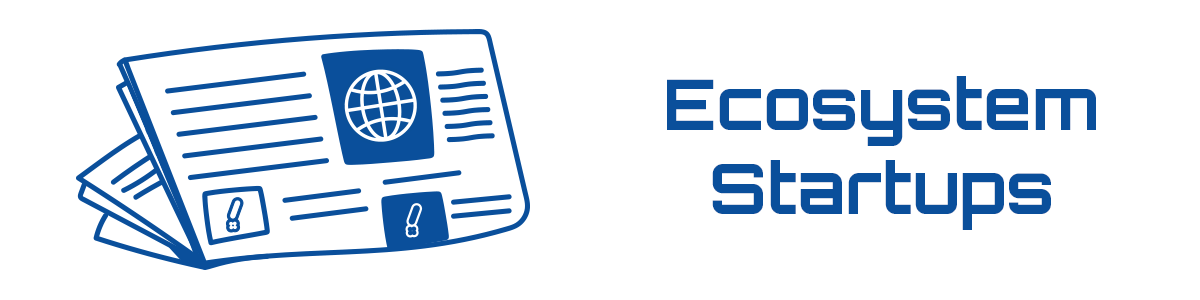
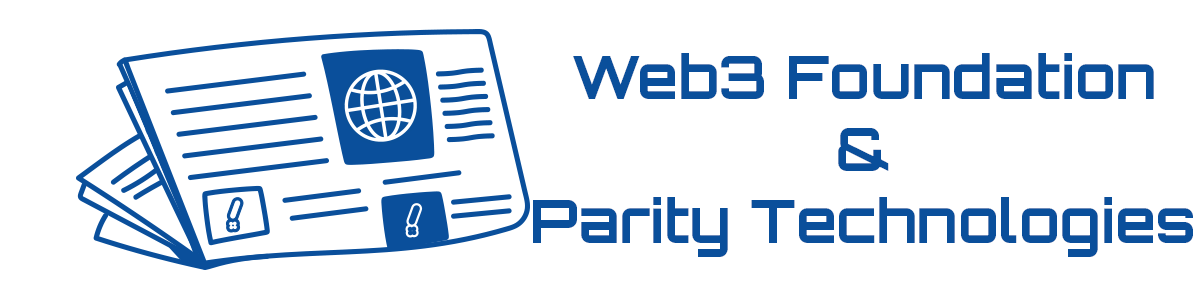
GITBOOK-730: Twitter thread 018

Changed region(s): [[0.4317, 0.18, 1.0, 0.87]]

diff --git a/community/careers/sustainable-employment.md b/community/careers/sustainable-employment.md
@@ -4,6 +4,45 @@ description: Corporate roles in the Polkadot ecosystem.
 
 # Sustainable employment
 
+## Work for an organisation.
+
+_23rd October 2025 | A thread by Pooja G._
+
+
+
+**Looking to work on blockchain infrastructure and governance?** The Web3 Foundation and Parity Technologies, two key organizations behind the [Polkadot](https://polkadot.com/) ecosystem, are actively recruiting.&#x20;
+
+<figure><img src="../../.gitbook/assets/Thread18.1.PNG" alt=""><figcaption></figcaption></figure>
+
+
+
+Parity Technologies is the engineering powerhouse behind the Polkadot SDK. This tech company creates the building blocks for decentralized networks and dApps.&#x20;
+
+The Web3 Foundation funds research, provides developers grants, and drives growth across Polkadot network. But its focus goes beyond the ecosystem to enable the next generation of Web3 products.
+
+<figure><img src="../../.gitbook/assets/unknown (1).png" alt="" width="563"><figcaption></figcaption></figure>
+
+Both organizations offer remote-first and globally accessible roles. Whether you're deeply technical or people-focused, there’s a program or a team to fit your profile.
+
+
+
+Current openings include:
+
+* Android Mobile Engineer
+* DevEx Manager
+* Decentralized Nodes for validators
+* Decentralized Voices for individuals and DAOs
+
+The bottom line? Contribute to web technologies used by thousands of developers and users worldwide!
+
+<figure><img src="../../.gitbook/assets/unknown (2).png" alt="" width="563"><figcaption></figcaption></figure>
+
+Ready to grab your first corporate role? Visit[ parity.io/careers](https://www.parity.io/careers) for openings in Engineering and Product or head to [web3.foundation/about](https://web3.foundation/about) to learn about the ongoing ecosystem growth strategy.
+
+
+
+***
+
 ## Work for a startup.
 
 _9th October 2025 | A thread by Pooja G._
@@ -20,7 +59,7 @@ Built for a multichain industry, Polkadot empowers parachains (rollups) to devel
 
 The Polkadot job board lists open roles from ecosystem teams like Bifrost, Startale Labs, and more. Whether you're a developer, designer, or strategist, there’s a role that will fit your skill set.
 
-<figure><img src="../../.gitbook/assets/Thread17.2.PNG" alt=""><figcaption></figcaption></figure>
+<figure><img src="../../.gitbook/assets/Thread17.2.PNG" alt="" width="563"><figcaption></figcaption></figure>
 
 Key roles currently in demand across startups include:
 
@@ -33,7 +72,7 @@ Key roles currently in demand across startups include:
 
 Why join a Polkadot ecosystem startup? You will get to work on innovative technologies and be part of a product-driven environment. Many positions are remote and come with the flexibility that modern professionals seek.
 
-<figure><img src="../../.gitbook/assets/unknown (2).png" alt="" width="563"><figcaption></figcaption></figure>
+<figure><img src="../../.gitbook/assets/unknown (2) (1).png" alt="" width="563"><figcaption></figcaption></figure>
 
 Ready to start? Head over to[ polkadot.getro.com](https://polkadot.getro.com/jobs), filter by role or company, and apply directly! If you are not sure if a role is a good fit, join community forums to engage with teams before applying.
 

diff --git a/README.md b/README.md
@@ -26,7 +26,7 @@ layout:
 # Welcome!
 
 {% hint style="info" %}
-🆕 [Web3 Crowdfunding with Giveth](community/blog/world-of-web3.md#web3-crowdfunding-with-giveth) 🆕
+🆕 [Web3 Careers with Ecosystem organisations](community/careers/sustainable-employment.md#work-for-an-organisation) 🆕
 {% endhint %}
 
 <table data-card-size="large" data-column-title-hidden data-view="cards" data-full-width="false"><thead><tr><th></th><th data-hidden data-card-target data-type="content-ref"></th><th data-hidden data-card-cover data-type="image">Cover image</th></tr></thead><tbody><tr><td>                                 <strong>Use cases</strong></td><td><a href="community/use-cases/">use-cases</a></td><td><a href=".gitbook/assets/Covers_UseCases.png">Covers_UseCases.png</a></td></tr><tr><td>                                    <strong>Ebooks</strong> </td><td><a href="community/series/">series</a></td><td><a href=".gitbook/assets/Covers_Ebooks.png">Covers_Ebooks.png</a></td></tr><tr><td>                                       <strong>Blog</strong></td><td><a href="community/blog/">blog</a></td><td><a href=".gitbook/assets/Covers_Blog.png">Covers_Blog.png</a></td></tr><tr><td>                                   <strong>Careers</strong></td><td><a href="community/careers/">careers</a></td><td><a href=".gitbook/assets/Covers_Careers.png">Covers_Careers.png</a></td></tr></tbody></table>
